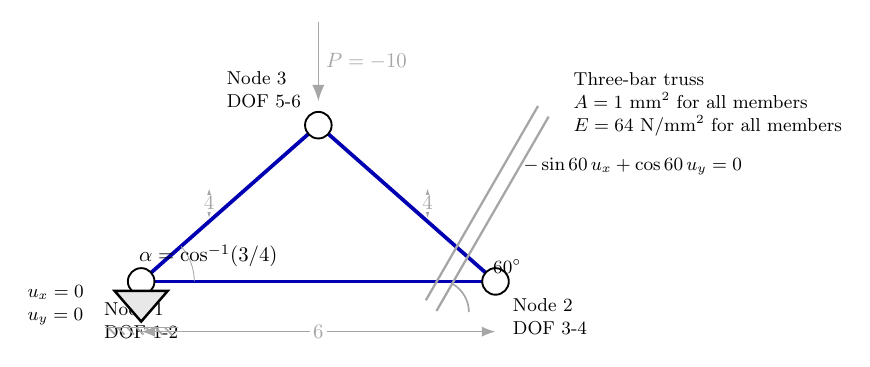
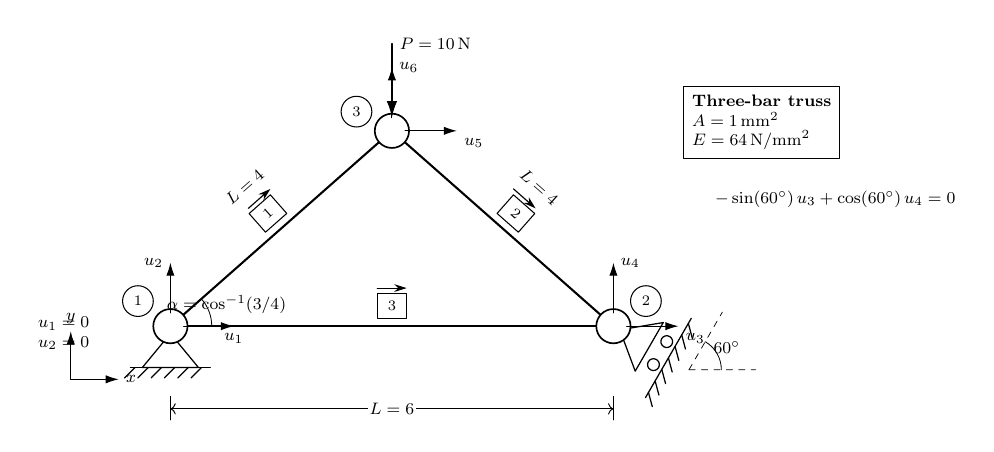
Refine truss benchmark figure and outputs

diff --git a/docs/assets/lagrange/ex_lag_mult_problem.tex b/docs/assets/lagrange/ex_lag_mult_problem.tex
@@ -1,49 +1,112 @@
-\documentclass[tikz,border=10pt]{standalone}
+\documentclass[tikz,border=15pt]{standalone}
 \usepackage{amsmath}
-\usetikzlibrary{arrows.meta,calc,angles,quotes,patterns}
+\usetikzlibrary{arrows.meta,calc,angles,quotes,positioning}
 
 \begin{document}
-\begin{tikzpicture}[
-    >=Latex,
-    member/.style={line width=1.8pt, draw=blue!70!black},
-    dim/.style={gray!70, line width=0.8pt},
-    note/.style={font=\small, align=left},
-    nodept/.style={circle, draw=black, fill=white, line width=0.9pt, minimum size=4.5mm, inner sep=0pt}
-]
+\begin{tikzpicture}[scale=1.25, font=\footnotesize, line cap=round, line join=round]
+    \coordinate (N1) at (0,0);
+    \coordinate (N2) at (6,0);
+    \coordinate (N3) at (3,2.64575);
 
-\coordinate (A) at (0,0);
-\coordinate (B) at (6,0);
-\coordinate (C) at (3,{sqrt(7)});
+    \tikzset{
+        truss/.style={draw=black, line width=1.0pt},
+        joint/.style={circle, draw=black, fill=white, line width=0.8pt, minimum size=5.8mm, inner sep=0pt},
+        elemLabel/.style={draw=black, fill=white, line width=0.5pt, minimum width=4.8mm, minimum height=4.2mm, inner sep=1pt, font=\scriptsize},
+        nodeLabel/.style={circle, draw=black, fill=white, line width=0.5pt, minimum size=5.2mm, inner sep=0pt, font=\scriptsize},
+        dof/.style={-{Latex[length=2.2mm,width=1.4mm]}, line width=0.5pt},
+        load/.style={-{Latex[length=2.8mm,width=1.8mm]}, line width=0.9pt},
+        guide/.style={draw=black, line width=0.6pt},
+        dim/.style={draw=black, line width=0.45pt},
+        note/.style={align=left}
+    }
 
-\draw[member] (A) -- (C);
-\draw[member] (C) -- (B);
-\draw[member] (A) -- (B);
+    \newcommand{\drawelement}[3]{%
+        \draw[truss] (#1) -- (#2);
+        \path (#1) -- (#2)
+            node[midway, sloped, above=1.2mm, elemLabel] (E#3) {#3};
+        \draw[-{Stealth[length=2.1mm,width=1.3mm]}, line width=0.55pt]
+            ($(E#3.north west)+(0,0.7mm)$) -- ($(E#3.north east)+(0,0.7mm)$);
+    }
 
-\node[nodept] at (A) {};
-\node[nodept, label={[note]below right:{Node 2\\DOF 3-4}}] at (B) {};
-\node[nodept, label={[note]above left:{Node 3\\DOF 5-6}}] at (C) {};
+    % Global axes
+    \begin{scope}[shift={(-1.35,-0.72)}]
+        \draw[dof] (0,0) -- (0.65,0) node[right] {$x$};
+        \draw[dof] (0,0) -- (0,0.65) node[above] {$y$};
+    \end{scope}
 
-\draw[dim,<->] (0,-0.85) -- node[fill=white, inner sep=1.5pt] {$6$} (6,-0.85);
-\draw[dim,<->] ($(A)!0.5!(C)+(-0.35,0.25)$) -- node[fill=white, inner sep=1pt] {$4$} ($(C)!0.5!(A)+(-0.35,-0.25)$);
-\draw[dim,<->] ($(B)!0.5!(C)+(0.35,0.25)$) -- node[fill=white, inner sep=1pt] {$4$} ($(C)!0.5!(B)+(0.35,-0.25)$);
+    % Node 1 pinned support
+    \begin{scope}[shift={(N1)}]
+        \draw[guide] (0,-0.10) -- (-0.38,-0.56) -- (0.38,-0.56) -- cycle;
+        \draw[guide] (-0.54,-0.56) -- (0.54,-0.56);
+        \foreach \x in {-0.48,-0.30,-0.12,0.06,0.24,0.42} {
+            \draw[guide] (\x,-0.56) -- ++(-0.14,-0.14);
+        }
+    \end{scope}
 
-\draw[very thick, fill=gray!18] (-0.45,-0.16) -- (0.45,-0.16) -- (0,-0.68) -- cycle;
-\draw[dim] (-0.62,-0.78) -- (0.62,-0.78);
-\foreach \x in {-0.56,-0.40,...,0.56} {
-    \draw[dim] (\x,-0.78) -- ++(0.12,-0.12);
-}
-\node[note, anchor=east] at (-0.8,-0.15) {Node 1\\DOF 1-2\\$u_x=0$\\$u_y=0$};
+    % Node 2 roller on a 60 degree incline
+    \begin{scope}[shift={(N2)}, rotate=60]
+        \draw[guide] (0,-0.10) -- (-0.38,-0.56) -- (0.38,-0.56) -- cycle;
+        \draw[guide] (-0.18,-0.73) circle (0.08);
+        \draw[guide] (0.18,-0.73) circle (0.08);
+        \draw[guide] (-0.62,-0.86) -- (0.62,-0.86);
+        \foreach \x in {-0.54,-0.36,-0.18,0,0.18,0.36,0.54} {
+            \draw[guide] (\x,-0.86) -- ++(-0.14,-0.14);
+        }
+    \end{scope}
 
-\draw[dim, line width=1.1pt] (5.0,-0.5) -- ++(1.9,{1.9*tan(60)});
-\draw[dim, line width=1.1pt] (4.82,-0.32) -- ++(1.9,{1.9*tan(60)});
-\draw[dim] (5.55,-0.52) arc[start angle=0,end angle=60,radius=0.55];
-\node[note] at (6.2,0.25) {$60^\circ$};
-\node[note, anchor=west] at (6.35,1.95) {$-\sin 60\,u_x + \cos 60\,u_y = 0$};
-\draw[dim, -{Latex[length=2.8mm]}] (3,4.4) -- node[right] {$P=-10$} (3,3.05);
+    % Angle of the inclined support
+    \coordinate (G0) at ($(N2)+(-30:1.18)$);
+    \coordinate (Gh) at ($(G0)+(0.9,0)$);
+    \coordinate (Gp) at ($(G0)+(60:0.9)$);
+    \draw[dashed, line width=0.35pt] (G0) -- (Gh);
+    \draw[dashed, line width=0.35pt] (G0) -- (Gp);
+    \pic [draw=black, angle radius=5.5mm, angle eccentricity=1.35, "$60^\circ$"] {angle = Gh--G0--Gp};
 
-\node[note, anchor=west] at (7.2,3.0) {Three-bar truss\\$A=1$ mm$^2$ for all members\\$E=64$ N/mm$^2$ for all members};
+    % Truss members
+    \drawelement{N1}{N3}{1}
+    \drawelement{N3}{N2}{2}
+    \drawelement{N1}{N2}{3}
 
-\pic [draw=gray!70, angle radius=9mm, "$\alpha=\cos^{-1}(3/4)$", angle eccentricity=1.35] {angle = B--A--C};
+    % Joints
+    \node[joint] at (N1) {};
+    \node[joint] at (N2) {};
+    \node[joint] at (N3) {};
 
+    % Node labels
+    \node[nodeLabel] at ($(N1)+(-0.44,0.34)$) {1};
+    \node[nodeLabel] at ($(N2)+(0.44,0.34)$) {2};
+    \node[nodeLabel] at ($(N3)+(-0.48,0.26)$) {3};
+
+    % Dimensions
+    \draw[dim] ($(N1)+(0,-0.95)$) -- ++(0,-0.32);
+    \draw[dim] ($(N2)+(0,-0.95)$) -- ++(0,-0.32);
+    \draw[dim,<->] ($(N1)+(0,-1.12)$) -- ($(N2)+(0,-1.12)$)
+        node[midway, fill=white, inner sep=1pt] {$L=6$};
+    \path (N1) -- (N3) node[midway, sloped, above=8mm, fill=white, inner sep=1pt] {$L=4$};
+    \path (N3) -- (N2) node[midway, sloped, above=8mm, fill=white, inner sep=1pt] {$L=4$};
+
+    % Material box
+    \node[draw=black, fill=white, inner sep=4pt, anchor=north west, note] at (6.95,3.25) {%
+        \textbf{Three-bar truss}\\
+        $A = 1\,\mathrm{mm}^2$\\
+        $E = 64\,\mathrm{N/mm}^2$
+    };
+
+    % Constraints and load
+    \node[note, anchor=north] at ($(N1)+(0.00,-0.74)$) {$u_1 = 0,\quad u_2 = 0$};
+    \node[note, anchor=west] at ($(N2)+(1.28,1.72)$) {$-\sin(60^\circ)\,u_3 + \cos(60^\circ)\,u_4 = 0$};
+    \draw[load] ($(N3)+(0,1.18)$) -- ($(N3)+(0,0.18)$)
+        node[pos=0, right] {$P = 10\,\mathrm{N}$};
+
+    % DOFs
+    \draw[dof] ($(N1)+(0.18,0)$) -- ++(0.68,0) node[below] {$u_1$};
+    \draw[dof] ($(N1)+(0,0.18)$) -- ++(0,0.68) node[left] {$u_2$};
+    \draw[dof] ($(N2)+(0.18,0)$) -- ++(0.70,0) node[below right] {$u_3$};
+    \draw[dof] ($(N2)+(0,0.18)$) -- ++(0,0.68) node[right] {$u_4$};
+    \draw[dof] ($(N3)+(0.18,0)$) -- ++(0.70,0) node[below right] {$u_5$};
+    \draw[dof] ($(N3)+(0,0.18)$) -- ++(0,0.68) node[right] {$u_6$};
+
+    % Left angle annotation
+    \pic [draw=black, angle radius=7mm, angle eccentricity=1.45, "$\alpha=\cos^{-1}(3/4)$"] {angle = N2--N1--N3};
 \end{tikzpicture}
 \end{document}

diff --git a/scripts/matlab/ex_lag_mult.m b/scripts/matlab/ex_lag_mult.m
@@ -57,10 +57,12 @@ U = solution(1:N);
 R = K(1:4, :) * U;
 
 member_forces = zeros(4, Nelem);
+local_displacements = zeros(4, Nelem);
 for e = 1:Nelem
     [k, T] = k_truss(A(e), E(e), L(e), alpha(e));
     ueg = U(Dvec(e, :));
     ue = T * ueg;
+    local_displacements(:, e) = ue;
     member_forces(:, e) = k * ue;
 end
 
@@ -70,6 +72,7 @@ result = struct( ...
     "U", U, ...
     "Lag", Lag, ...
     "R", R, ...
+    "local_displacements", local_displacements, ...
     "member_forces", member_forces, ...
     "constraint_residual", constraint_residual ...
 );
@@ -82,6 +85,7 @@ if strlength(output_dir) > 0
     write_tsv(fullfile(output_dir, "Lag.tsv"), Lag);
     write_tsv(fullfile(output_dir, "R.tsv"), R);
     write_tsv(fullfile(output_dir, "member_forces.tsv"), member_forces);
+    write_tsv(fullfile(output_dir, "local_displacements.tsv"), local_displacements);
     write_tsv(fullfile(output_dir, "constraint_residual.tsv"), constraint_residual);
 elseif nargout == 0
     disp(result);

diff --git a/scripts/compare_ex_lag_mult.py b/scripts/compare_ex_lag_mult.py
@@ -13,7 +13,14 @@ import numpy as np
 REPO = Path(__file__).resolve().parents[1]
 OUTDIR = REPO / "tmp" / "ex_lag_mult_compare"
 LOGDIR = OUTDIR / "logs"
-FIELDS = ("U", "Lag", "R", "member_forces", "constraint_residual")
+FIELDS = (
+    "U",
+    "Lag",
+    "R",
+    "member_forces",
+    "local_displacements",
+    "constraint_residual",
+)
 
 MATLAB_CLI = Path(r"C:\Program Files\MATLAB\R2025b\bin\matlab.exe")
 SCILAB_CLI = Path(r"C:\Program Files\scilab-2025.0.0\bin\WScilex-cli.exe")

diff --git a/README.md b/README.md
@@ -358,16 +358,49 @@ All four implementations converge to the same answer up to floating-point roundo
 - `Lag ~= [-8.66025404, -5, -10]^T`
 - `R ~= [8.66025404, 5, -8.66025404, 5]^T`
 
+### Solver Outputs
+
+Values below come from the current cross-language run. Near-zero values are shown as `0` for readability.
+
+#### Nodal Displacements
+
+| Solver | `u_1` | `u_2` | `u_3` | `u_4` | `u_5` | `u_6` |
+| --- | ---: | ---: | ---: | ---: | ---: | ---: |
+| Python | 0 | 0 | -0.280386275879 | -0.485643275567 | 0.073955417567 | -0.798143275567 |
+| Scilab | 0 | 0 | -0.280386275879 | -0.485643275567 | 0.073955417567 | -0.798143275567 |
+| MATLAB | 0 | 0 | -0.280386275879 | -0.485643275567 | 0.073955417567 | -0.798143275567 |
+| Julia | 0 | 0 | -0.280386275879 | -0.485643275567 | 0.073955417567 | -0.798143275567 |
+
+#### Local Axial Element Displacements
+
+Each pair lists the local axial displacement at the first and second node of the element.
+
+| Solver | Element 1 `(u_i', u_j')` | Element 2 `(u_i', u_j')` | Element 3 `(u_i', u_j')` |
+| --- | --- | --- | --- |
+| Python | `(0, -0.472455591262)` | `(0.583388717613, 0.110933126351)` | `(0, -0.280386275879)` |
+| Scilab | `(0, -0.472455591262)` | `(0.583388717613, 0.110933126351)` | `(0, -0.280386275879)` |
+| MATLAB | `(0, -0.472455591262)` | `(0.583388717613, 0.110933126351)` | `(0, -0.280386275879)` |
+| Julia | `(0, -0.472455591262)` | `(0.583388717613, 0.110933126351)` | `(0, -0.280386275879)` |
+
+#### Local Member Forces
+
+| Solver | Element 1 | Element 2 | Element 3 |
+| --- | ---: | ---: | ---: |
+| Python | 7.559289460185 | 7.559289460185 | 2.990786942706 |
+| Scilab | 7.559289460185 | 7.559289460185 | 2.990786942706 |
+| MATLAB | 7.559289460185 | 7.559289460185 | 2.990786942706 |
+| Julia | 7.559289460185 | 7.559289460185 | 2.990786942706 |
+
 ### Comparison
 
 Results below come from `python scripts/compare_ex_lag_mult.py`, which executed Python, Scilab, MATLAB, and Julia versions of the same problem and compared their outputs componentwise.
 
-| Solver | Runtime (s) | max \|Delta U\| vs Python | max \|Delta Lag\| vs Python | max \|Delta R\| vs Python | max \|Delta member force\| vs Python |
-| --- | ---: | ---: | ---: | ---: | ---: |
-| Python | 0.00067 | 0 | 0 | 0 | 0 |
-| Scilab | 3.38350 | 2.22e-16 | 1.78e-15 | 1.78e-15 | 8.88e-16 |
-| MATLAB | 4.54939 | 6.11e-16 | 8.88e-15 | 8.88e-15 | 5.77e-15 |
-| Julia | 1.65895 | 5.00e-16 | 5.33e-15 | 5.33e-15 | 3.55e-15 |
+| Solver | Runtime (s) | max \|Delta U\| vs Python | max \|Delta Lag\| vs Python | max \|Delta R\| vs Python | max \|Delta member force\| vs Python | max \|Delta local disp.\| vs Python |
+| --- | ---: | ---: | ---: | ---: | ---: | ---: |
+| Python | 0.00392 | 0 | 0 | 0 | 0 | 0 |
+| Scilab | 3.91070 | 2.22e-16 | 1.78e-15 | 1.78e-15 | 8.88e-16 | 3.33e-16 |
+| MATLAB | 7.61652 | 6.11e-16 | 8.88e-15 | 8.88e-15 | 5.77e-15 | 7.77e-16 |
+| Julia | 2.28636 | 5.00e-16 | 5.33e-15 | 5.33e-15 | 3.55e-15 | 5.00e-16 |
 
 The full machine-readable output is written to `tmp/ex_lag_mult_compare/summary.json`.
 
